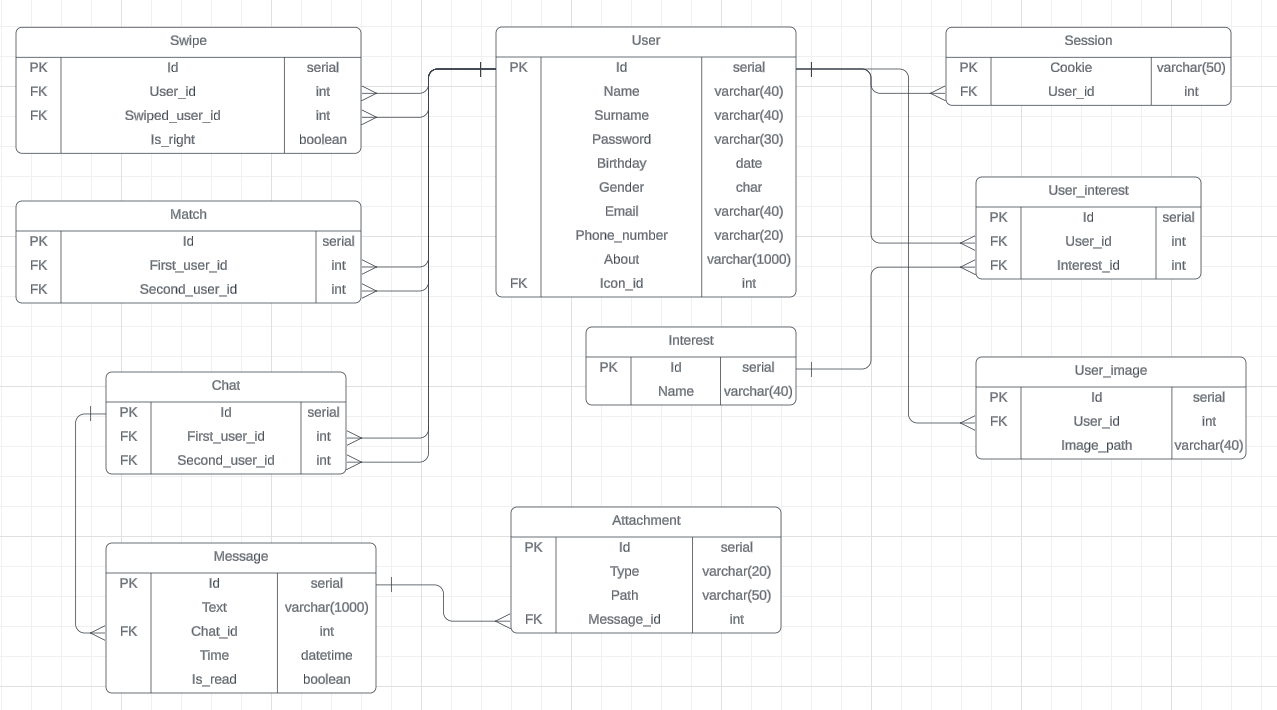
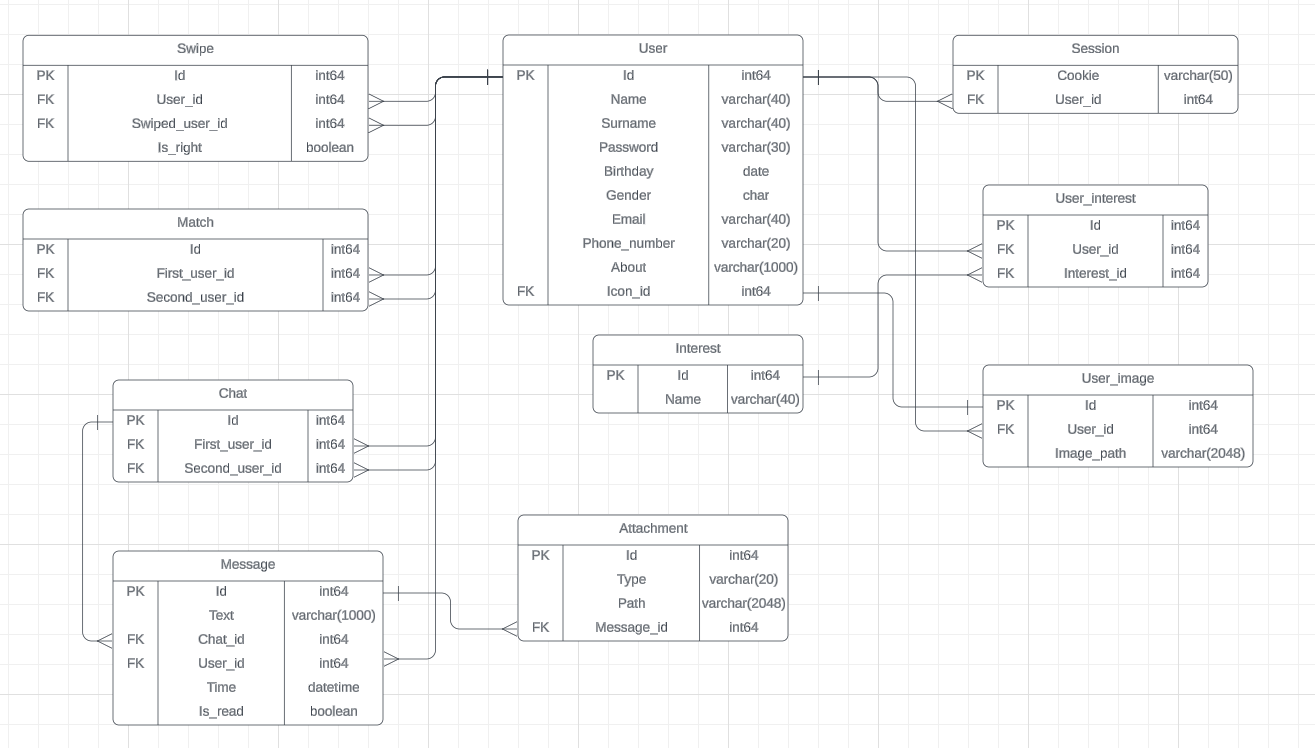
Physical schema finished

diff --git a/README.md b/README.md
@@ -209,13 +209,13 @@
 
 ### Схема балансировки
 
-1. На входе в ДЦ ставим чётное число роутеров (каждый роутер будет иметь дубликат для обеспечения отказоустойчивости и равномерного распределения траффика между роутерами)
-2. Далее мобильный трафик проксируется на nginx, при этом маршруты к nginx анонсируются через BGP, а веб запросы балансируются напрямую на application-сервера
+1. На входе в ДЦ ставим несколько роутеров 
+2. Далее трафик проксируется на nginx, при этом маршруты к nginx анонсируются через BGP
 3. nginx балансирует трафик на application-сервера по round-robin стратегии
 
 ### Нагрузка по терминации SSL
 
-При такой схеме балансировки для мобильного трафика можно терминировать SSL на уровне nginx, а для веб-трафика на уровне application-серверов.
+При такой схеме балансировки можно терминировать SSL на уровне nginx.
 
 Пиковый RPS равен 82 454, суммарный пиковый трафик - 312.14 Гбит/с  
 Пусть на датацентр приходится в среднем 20% запросов/трафика, тогда на один ДЦ приходится:
@@ -225,9 +225,9 @@
 
 ### Обеспечение отказоустойчивости
 
-1. Чётное число роутеров на входе в ДЦ
-2. Чётное число инстансов nginx
-3. Следует выделить железо, способное выдержать 2 * пиковый трафик
+1. Несколько роутеров на входе в ДЦ
+2. Несколько инстансов nginx
+3. Следует выделить железо, способное выдержать 80% пикового трафика
 
 ## 5. Логическая схема БД<a name="5"></a>
 
@@ -237,23 +237,23 @@
 
 **User**
 
-| Поле              | Тип          | Размер, байт |
-| ----------------- | ------------ | :----------: |
-| Id                | int64        |      8       |
-| Name              | varchar(40)  |      40      |
-| Surname           | varchar(40)  |      40      |
-| Password          | varchar(30)  |      30      |
-| Birthday          | date         |      3       |
-| Gender            | char         |      1       |
-| Email             | varchar(40)  |      40      |
-| Phone_number      | varchar(40)  |      40      |
-| About             | varchar(1000)|      1000    |
-| Icon_id           | int64        |      8       |
-| **Сумма**         | -            |   **1210**   |
+| Поле              | Тип          | Размер, байт | Средний размер, байт |
+| ----------------- | ------------ | :----------: | :------------------: |
+| Id                | int64        |      8       |          8           |
+| Name              | varchar(40)  |      40      |          10          |
+| Surname           | varchar(40)  |      40      |          10          |
+| Password          | varchar(30)  |      30      |          15          |
+| Birthday          | date         |      3       |          3           |
+| Gender            | char         |      1       |          1           |
+| Email             | varchar(40)  |      40      |          25          |
+| Phone_number      | varchar(40)  |      40      |          12          | 
+| About             | varchar(1000)|      1000    |          100         |
+| Icon_id           | int64        |      8       |          8           |
+| **Сумма**         | -            |   **1210**   |          **192**     |
 
-Размер одной записи - около 1210 байт.
+Размер одной записи - около 192 байт.
 
-При размере аудитории в 75 млн пользователей получим общий объём таблицы: 84.5 Гб
+При размере аудитории в 75 млн пользователей получим общий объём таблицы: 13.4 Гб
 
 **Session**
 
@@ -298,12 +298,12 @@
 | ----------------- | ------------ | :----------: |
 | Id                | int64        |      8       |
 | User_id           | int64        |      8       |
-| Image_path        | varchar(40)  |      40      |
-| **Сумма**         | -            |   **56**     |
+| Image_path        | varchar(2048)|      2048    |
+| **Сумма**         | -            |   **2064**   |
 
-Размер одной записи - около 56 байт.
+Размер одной записи - около 2064 байт.
 
-В среднем у одного пользователя 5 фото. При размере аудитории в 75 млн пользователей получим общий объём таблицы: 3.9 Гб
+В среднем у одного пользователя 5 фото. При размере аудитории в 75 млн пользователей получим общий объём таблицы: 720 Гб
 
 **Swipe**
 
@@ -359,13 +359,16 @@
 | Id                | int64        |      8       |
 | Text              | varchar(1000)|      1000    |
 | Chat_id           | int64        |      8       |
+| User_id           | int64        |      8       |
 | Time              | datetime     |      8       |
 | Is_read           | boolean      |      1       |
-| **Сумма**         | -            |   **1025**   |
+| **Сумма**         | -            |   **1032**   |
 
-Размер одной записи - около 1025 байт.
+Следует учитывать что средний размер сообщения около 50 символов.
 
-В среднем в одном чате хранится около 20 сообщений. Тогда общий объем таблицы: 167 Тб
+Размер одной записи - около 83 байт.
+
+В среднем в одном чате хранится около 20 сообщений. Тогда общий объем таблицы: 13 Тб
 
 **Attachment**
 
@@ -373,30 +376,30 @@
 | ----------------- | ------------ | :----------: |
 | Id                | int64        |      8       |
 | Type              | varchar(20)  |      20      |
-| Path              | varchar(50)  |      50      |
+| Path              | varchar(50)  |      2048    |
 | Message_id        | int64        |      8       |
-| **Сумма**         | -            |   **86**     |
+| **Сумма**         | -            |   **2084**     |
 
-Размер одной записи - около 86 байт.
+Размер одной записи - около 2084 байт.
 
 В приложении отправляют 4.2 млн вложений в неделю. Приложение хранит переписки в течении полугода.
 
-Тогда общий объем таблицы: 8.4 Гб
+Тогда общий объем таблицы: 200 Гб
 
 ### Сводка:
 
 | Таблица             | Размер одной строки | Кол-во строк | Общий размер | Нагрузка на чтение(RPS) | Нагрузка на запись(RPS) |
 | ------------------- | ------------------- | ------------ | ------------ | ------------------ | ------------------ |
-| User                | 1210 Байт           | 75 млн       | 84.5 Гб      | 39618              | 0.66               |
+| User                | 192 Байта           | 75 млн       | 13.4 Гб      | 39618              | 0.66               |
 | Session             | 58 Байт             | 42 млн       | 2.3 Гб       | 82180              | 486.11             |
 | Interest            | 48 Байт             | 11           | 528 байт     | 39618              | 0                  |
 | User_interest       | 24 Байта            | 300 млн      | 286 Мб       | 39618              | 0.66               |
-| User_image          | 56 Байт             | 375 млн      | 3.9 Гб       | 47394              | 30.66              | 
+| User_image          | 2064 Байт           | 375 млн      | 720 Гб       | 47394              | 30.66              | 
 | Swipe               | 25 Байт             | 288 млрд     | 3.3 Тб       | 2674               | 36944              |
 | Match               | 24 Байта            | 9 млрд       | 100 Гб       | 2674               | 2674               |
 | Chat                | 24 Байта            | 9 млрд       | 201 Гб       | 3888               | 2674               |
-| Message             | 1025 Байт           | 180 млрд.    | 167 Тб       | 3888               | 24062              |
-| Attachment          | 86 Байт             | 105 млн      | 8.4 Гб       | 3888               | 274                |
+| Message             | 83 Байта            | 180 млрд.    | 13 Тб        | 3888               | 24062              |
+| Attachment          | 2084 Байт           | 105 млн      | 200 Гб       | 3888               | 274                |
 
 ## 6. Физическая схема БД<a name="6"></a>
 
@@ -409,8 +412,20 @@
 3. Добавить список фото сразу в User
 4. Добавить информацию о вложениях сразу в Message
 
+### Партиционирование ClickHouse
+
+- Таблица Swipe: партиционирование по User_id
+Сохранять сообщения батчами по 10 млн строк. 
+- Таблица Message: партиционирование по Chat_id и Time
+Сохранять сообщения батчами по 1 млн строк с учетом того, чтобы они хранились вместе своим чатом.
+- В качестве буфера для хранения данных можно использовать Kafka.
+
 ![Физическая схема БД](physicalsheme.png)
 
+### Хранилище файлов 
+
+Фото пользователей и прикрепленные файлы к сообщениям можно хранить в собственном S3 хранилище.
+Размер файлов: 1514 Тб
 
 # Источники
 - https://roast.dating/blog/tinder-statistics 
